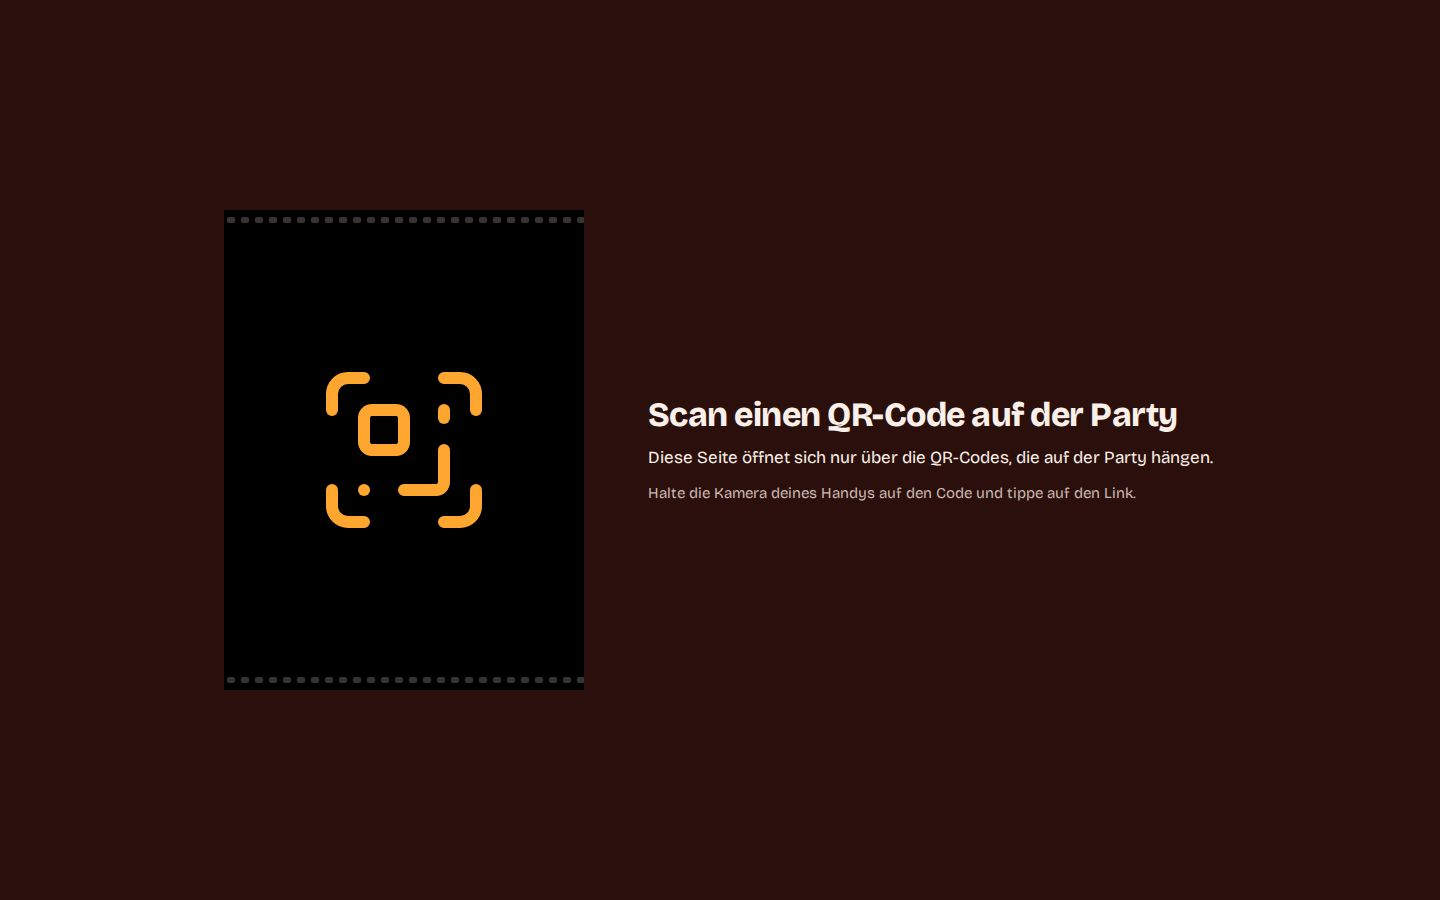
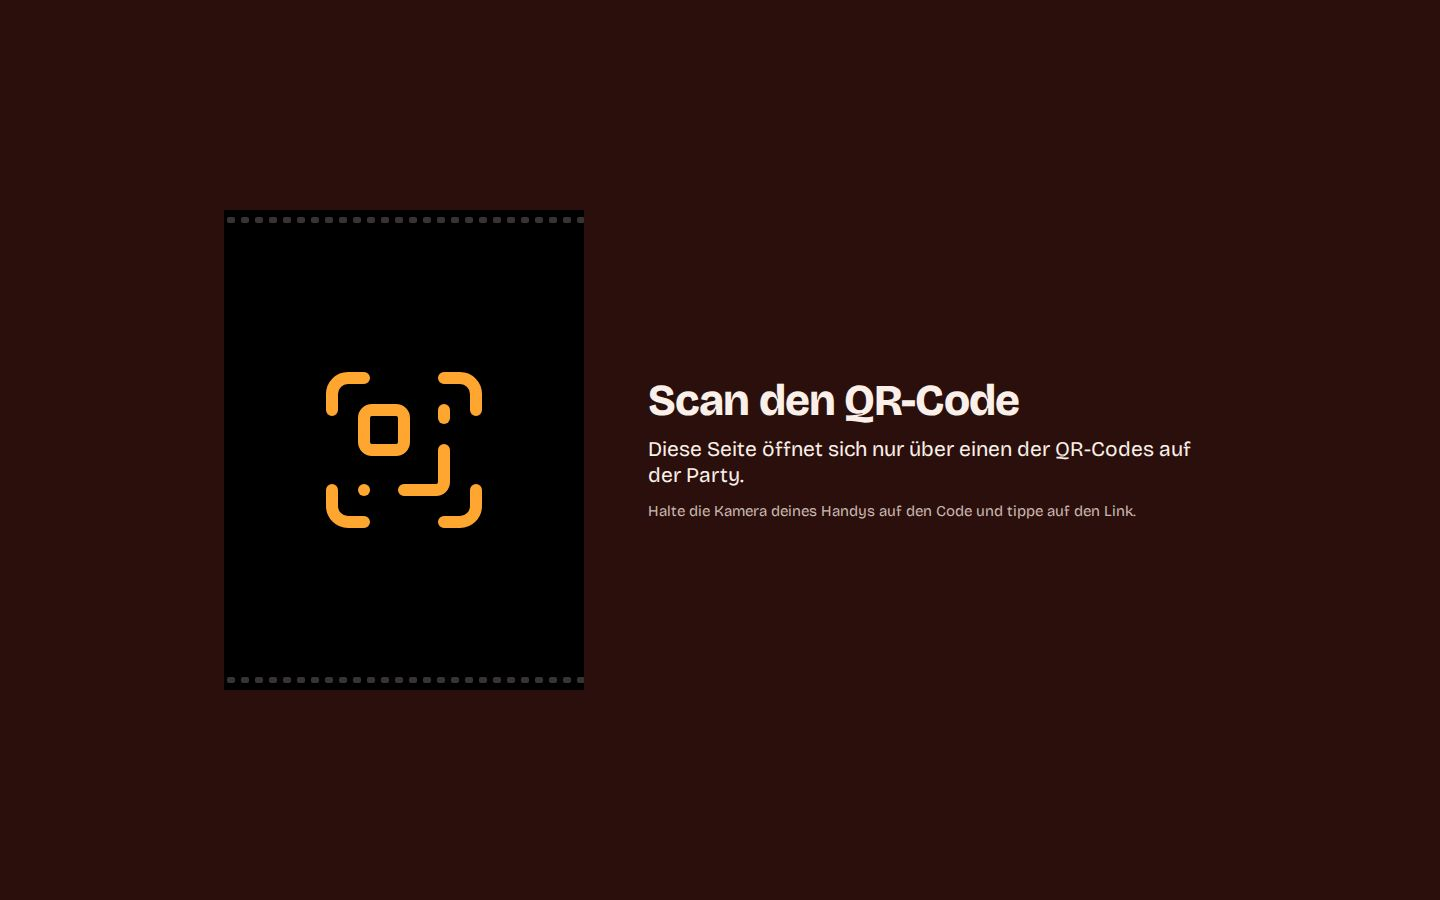
frontend: gate copy per the web-serving contract, desktop scale
The backend tests look for "Scan den QR-Code" and "Hier ist nichts" in
gate.html (docs/overhaul/contracts/web-serving.md in BE-core's branch); the
headline now says exactly that. Larger type on desktop.

Changed region(s): [[0.4375, 0.4044, 0.8438, 0.5911]]

diff --git a/frontend/gate.html b/frontend/gate.html
@@ -78,12 +78,10 @@
 
       <div class="vb-mode-gate">
         <section class="grid gap-3" data-testid="gate">
-          <h1 class="text-2xl font-bold">
-            Scan einen <span class="whitespace-nowrap">QR-Code</span> auf der Party
-          </h1>
-          <p class="text-md">
-            Diese Seite öffnet sich nur über die <span class="whitespace-nowrap">QR-Codes</span>, die auf der
-            Party hängen.
+          <h1 class="text-2xl font-bold lg:text-3xl">Scan den QR-Code</h1>
+          <p class="text-md lg:text-lg">
+            Diese Seite öffnet sich nur über einen der <span class="whitespace-nowrap">QR-Codes</span> auf der
+            Party.
           </p>
           <p class="text-ink-muted">Halte die Kamera deines Handys auf den Code und tippe auf den Link.</p>
         </section>
@@ -91,8 +89,8 @@
 
       <div class="vb-mode-notfound">
         <section class="grid justify-items-start gap-3" data-testid="notfound">
-          <h1 class="text-2xl font-bold">Hier ist nichts.</h1>
-          <p class="text-md">Diese Seite gibt es nicht.</p>
+          <h1 class="text-2xl font-bold lg:text-3xl">Hier ist nichts.</h1>
+          <p class="text-md lg:text-lg">Diese Seite gibt es nicht.</p>
           <a class="vb-btn vb-btn--primary mt-3" href="/">Zum Start</a>
         </section>
       </div>

diff --git a/frontend/src/lib/messages.de.ts b/frontend/src/lib/messages.de.ts
@@ -110,8 +110,8 @@ export const msg = {
   offlineShort: 'Offline',
 
   // gate / not found
-  gateTitle: 'Scan einen QR-Code auf der Party',
-  gateText: 'Diese Seite öffnet sich nur über die QR-Codes, die auf der Party hängen.',
+  gateTitle: 'Scan den QR-Code',
+  gateText: 'Diese Seite öffnet sich nur über einen der QR-Codes auf der Party.',
   gateHint: 'Halte die Kamera deines Handys auf den Code und tippe auf den Link.',
   notFoundTitle: 'Hier ist nichts.',
   notFoundText: 'Diese Seite gibt es nicht.',
